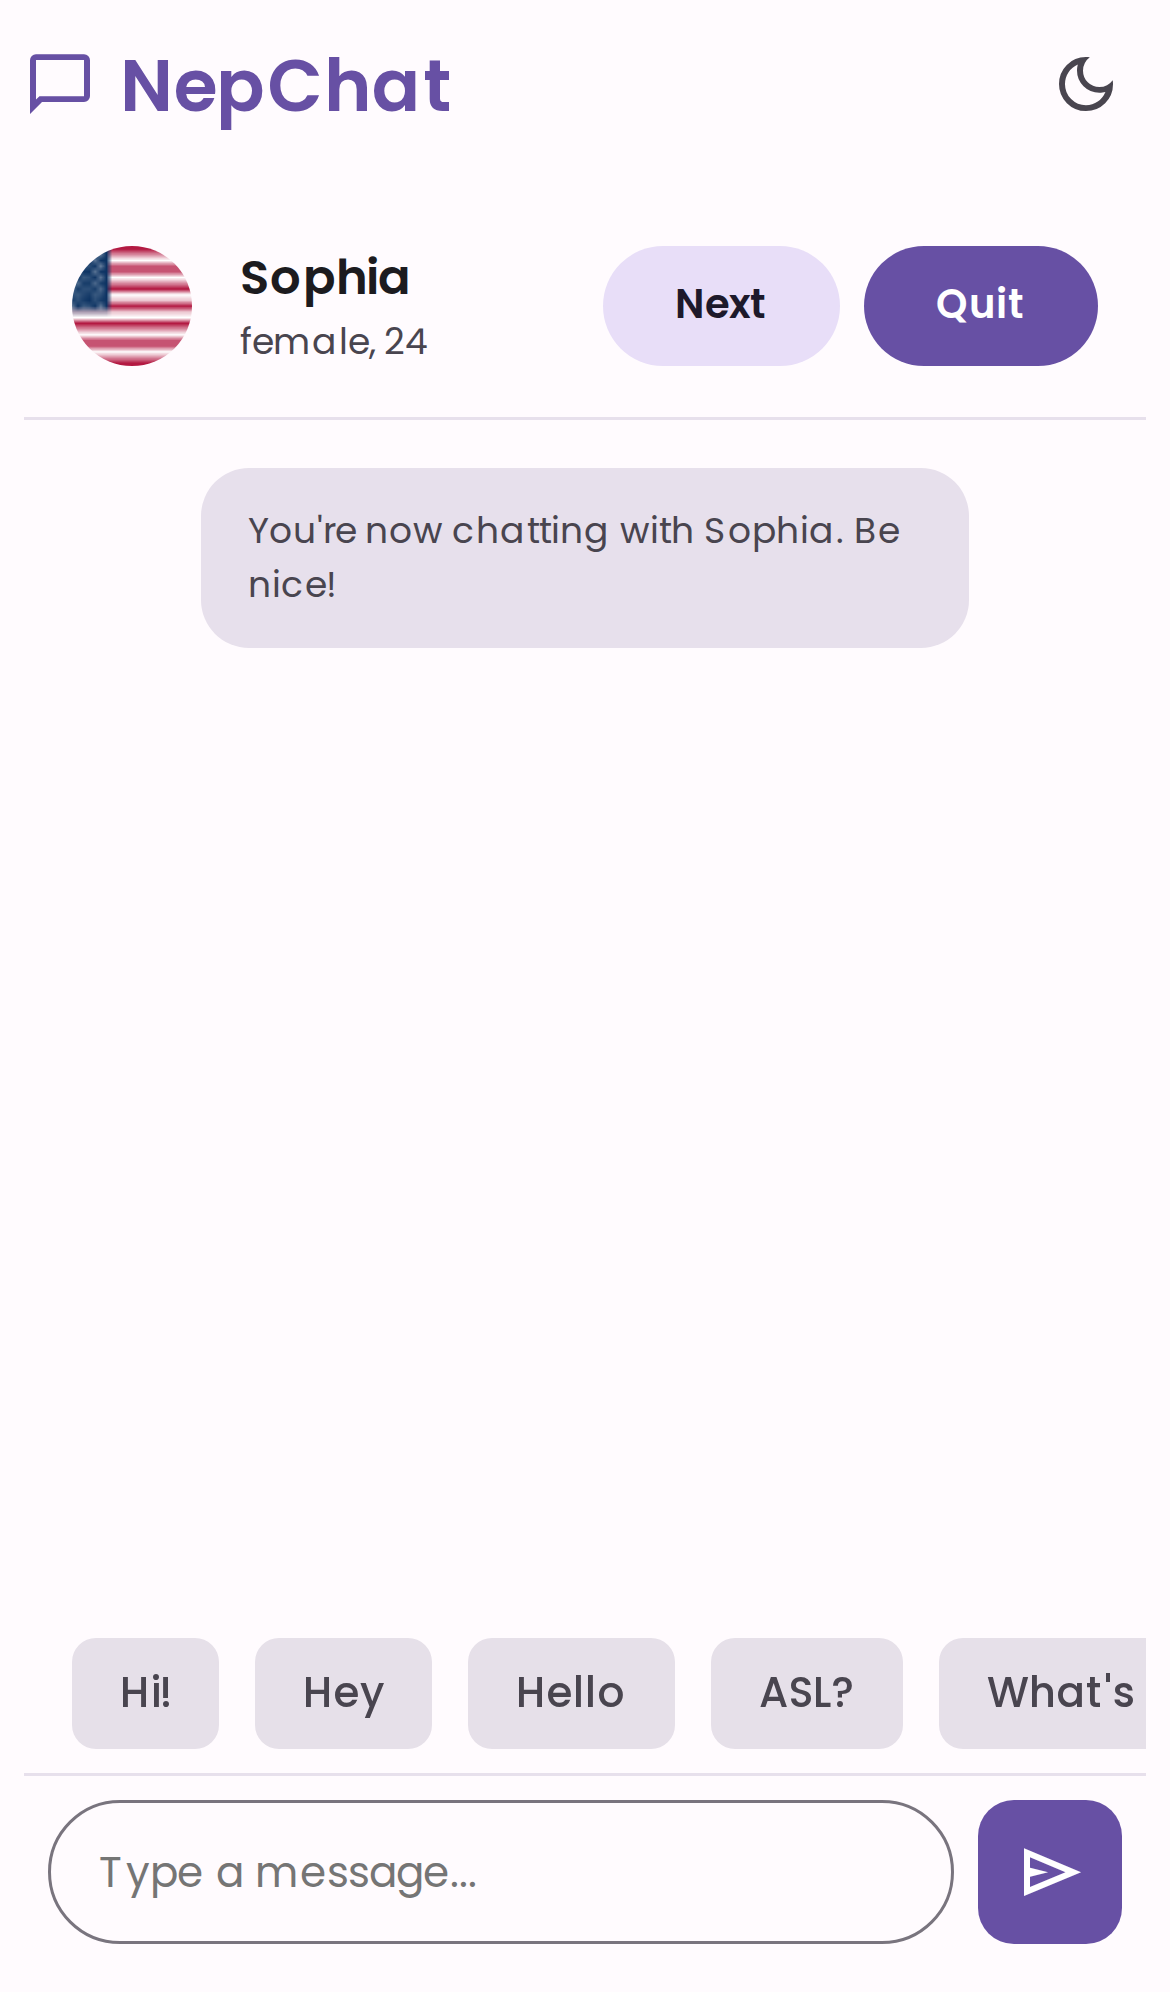
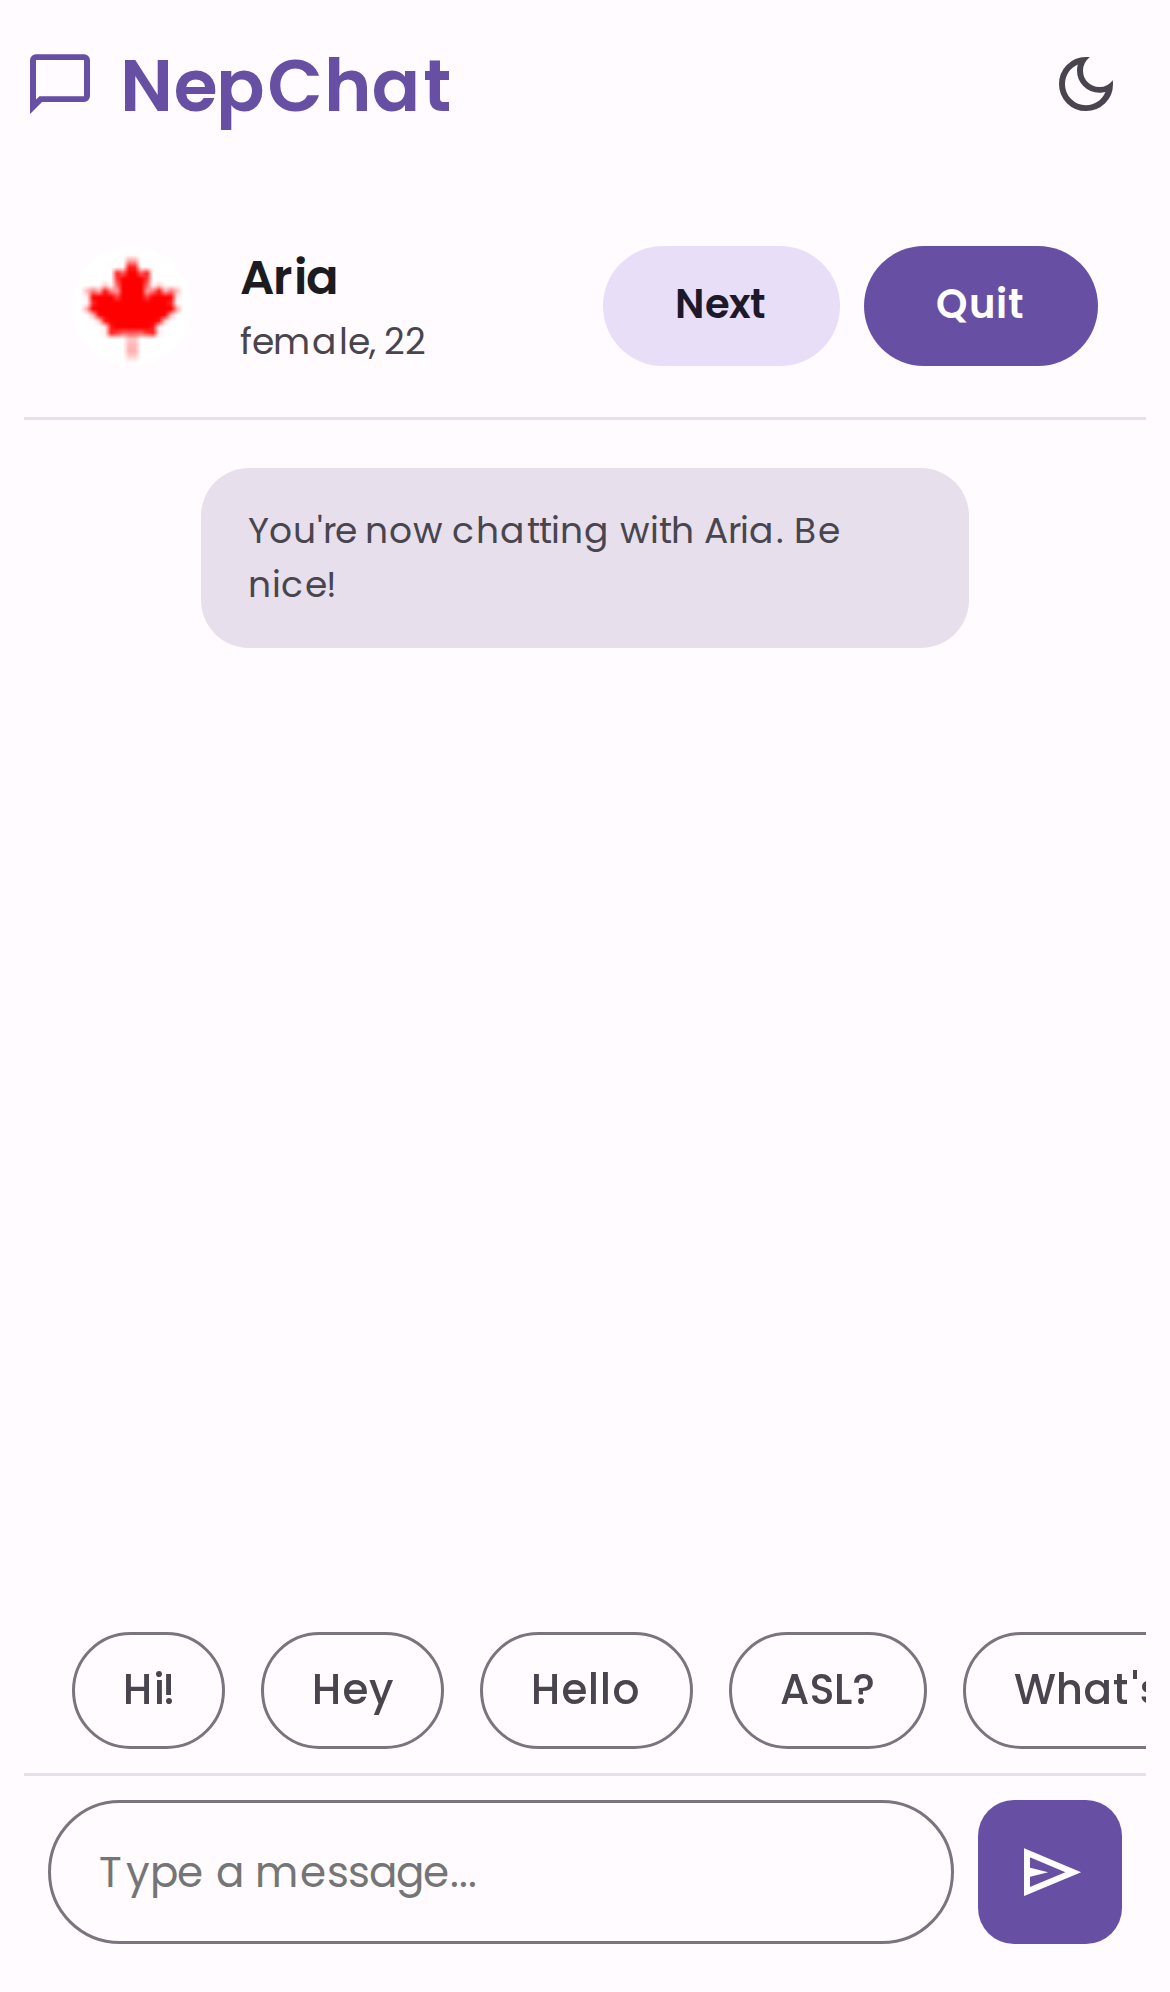
feat: Enhance chat UI with suggestions and mobile fixes
This commit introduces a new message suggestions feature and several key UI/UX improvements to the NepChat application, particularly for mobile devices.

Key changes include:

1.  **New Message Suggestions Feature:**
    - Displays horizontally scrollable message suggestions (e.g., "Hi!", "ASL?") at the beginning of a new chat.
    - Clicking a suggestion sends its content as a message and hides the suggestion container.
    - The suggestions are styled with a clean, border-based look and fully rounded corners.

2.  **Mobile UI and UX Fixes:**
    - **Resolved Chat Input Overflow:** Fixed a bug where the chat input area would overflow on narrow screens by setting `min-width: 0` on the input field and adjusting padding.
    - **Adjusted Font Sizes:** Reduced the font sizes for chat messages and other text elements on mobile for better readability.

These changes address user feedback and create a more polished, professional, and user-friendly chat experience.

diff --git a/style.css b/style.css
@@ -406,19 +406,21 @@ button {
 
 .suggestion-chip {
     padding: 0.5rem 1rem;
-    background-color: var(--surface-container-highest);
+    background-color: transparent;
     color: var(--on-surface-variant);
-    border-radius: var(--border-radius-small);
+    border: 1px solid var(--outline);
+    border-radius: var(--border-radius-full);
     font-size: 0.875rem;
     font-weight: 500;
     cursor: pointer;
     flex-shrink: 0;
     white-space: nowrap;
-    transition: background-color var(--transition-short);
+    transition: background-color var(--transition-short), border-color var(--transition-short);
 }
 
 .suggestion-chip:hover {
-    background-color: var(--surface-variant);
+    background-color: rgba(var(--primary), 0.08);
+    border-color: var(--primary);
 }
 
 .chat-input-area {
